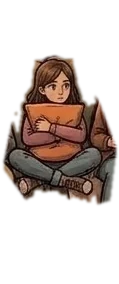
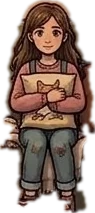
Canapé version 2 : silhouettes séparées recalées sur 4 places, table reposée devant

diff --git a/piece.js b/piece.js
@@ -695,7 +695,9 @@ function dormeurLit(lit){
 /* ---------- La famille sur le canapé du salon (2026-11-12, image Gemini) ----------
    Un membre de la famille d'origine au refuge, ni épuisé (il serait au lit), ni choisi pour partir, s'assoit à SA place
    (de gauche à droite : Papa, Léo, Emma, Maman). Chaque place est découpée à la silhouette, sans toucher aux coussins. */
-var PLACES_CANAPE = { "Papa":[330, 340, 464, 624, "papa"], "Léo":[451, 340, 544, 624, "leo"], "Emma":[529, 340, 648, 624, "emma"], "Maman":[612, 340, 727, 624, "maman"] };
+// Version 2 (2026-11-12) : deux images Gemini avec deux personnes espacées, silhouettes recalées chacune sur sa place ;
+// ordre de pose Léo, Papa, Emma, Maman (Papa devant le bras de Léo), puis la table basse et ses objets reposés devant eux
+var PLACES_CANAPE = { "Léo":[427, 354, 538, 574, "leo"], "Papa":[310, 339, 470, 600, "papa"], "Emma":[521, 374, 616, 587, "emma"], "Maman":[610, 353, 710, 615, "maman"] };
 function auSalon(r){
   if(!G || !G.m) return false;
   var i = G.m.findIndex(function(y){ return roleDormeur(y) === r; }), x = G.m[i];
@@ -707,6 +709,7 @@ function auSalon(r){
   var apres = 0; P.decor.forEach(function(d, k){ if(typeof d[0] === "string" && (d[0].indexOf("images/barricades/") === 0 || d[0].indexOf("images/feux/") === 0)) apres = k + 1; });
   var places = Object.keys(PLACES_CANAPE).map(function(r){ var L = PLACES_CANAPE[r];
     return ["images/personnages/canape-" + L[4] + ".webp", L[0], L[1], L[2], L[3], function(){ return auSalon(r); }]; });
+  places.push(["images/personnages/canape-table.webp", 360, 490, 665, 695, function(){ return Object.keys(PLACES_CANAPE).some(auSalon); }]);
   Array.prototype.splice.apply(P.decor, [apres, 0].concat(places));
 })();
 

diff --git a/site/piece.js b/site/piece.js
@@ -695,7 +695,9 @@ function dormeurLit(lit){
 /* ---------- La famille sur le canapé du salon (2026-11-12, image Gemini) ----------
    Un membre de la famille d'origine au refuge, ni épuisé (il serait au lit), ni choisi pour partir, s'assoit à SA place
    (de gauche à droite : Papa, Léo, Emma, Maman). Chaque place est découpée à la silhouette, sans toucher aux coussins. */
-var PLACES_CANAPE = { "Papa":[330, 340, 464, 624, "papa"], "Léo":[451, 340, 544, 624, "leo"], "Emma":[529, 340, 648, 624, "emma"], "Maman":[612, 340, 727, 624, "maman"] };
+// Version 2 (2026-11-12) : deux images Gemini avec deux personnes espacées, silhouettes recalées chacune sur sa place ;
+// ordre de pose Léo, Papa, Emma, Maman (Papa devant le bras de Léo), puis la table basse et ses objets reposés devant eux
+var PLACES_CANAPE = { "Léo":[427, 354, 538, 574, "leo"], "Papa":[310, 339, 470, 600, "papa"], "Emma":[521, 374, 616, 587, "emma"], "Maman":[610, 353, 710, 615, "maman"] };
 function auSalon(r){
   if(!G || !G.m) return false;
   var i = G.m.findIndex(function(y){ return roleDormeur(y) === r; }), x = G.m[i];
@@ -707,6 +709,7 @@ function auSalon(r){
   var apres = 0; P.decor.forEach(function(d, k){ if(typeof d[0] === "string" && (d[0].indexOf("images/barricades/") === 0 || d[0].indexOf("images/feux/") === 0)) apres = k + 1; });
   var places = Object.keys(PLACES_CANAPE).map(function(r){ var L = PLACES_CANAPE[r];
     return ["images/personnages/canape-" + L[4] + ".webp", L[0], L[1], L[2], L[3], function(){ return auSalon(r); }]; });
+  places.push(["images/personnages/canape-table.webp", 360, 490, 665, 695, function(){ return Object.keys(PLACES_CANAPE).some(auSalon); }]);
   Array.prototype.splice.apply(P.decor, [apres, 0].concat(places));
 })();
 

diff --git a/site/sw.js b/site/sw.js
@@ -4,7 +4,7 @@
    IMPORTANT : à chaque mise à jour du jeu, changer VERSION (sinon les
    téléphones garderaient l'ancienne copie).
    ===================================================================== */
-var VERSION = "survival-20261112-0910";
+var VERSION = "survival-20261112-0922";
 var FICHIERS = [
   "./",
   "index.html",

diff --git a/CLAUDE.md b/CLAUDE.md
@@ -385,6 +385,7 @@ Cartes de la famille à 2 barres (2026-11-11, accord de Fabien) : vie et énergi
 Logo du jeu avant « Jour N » aussi sur téléphone (2026-11-11, demande de Fabien) : `.hd-logo` affiché hors PC (46 px, 38 px sous 370 px de large, 36 px en paysage bas). Menu ☰ : toutes les icônes des tuiles à 20 px (15 px en paysage bas), qu'elles soient peintes, dessinées ou emoji
 En-tête corrigé (2026-11-12, retour de Fabien « n'importe quoi dans le header ») : avec le logo, les pastilles du haut du téléphone étaient écrasées (icônes de 4 px). Sur téléphone, la saison n'est plus qu'une icône (`.ch-nom` caché) à côté de « Chapitre N » ; sur PC, retour à l'en-tête d'avant (chapitre en texte, saison sur sa ligne). Les icônes des pastilles ne rétrécissent plus (`flex:none`) ; sur PC (≥ 1400 px) le petit nom (« EAU », « DÉFENSE ») passe SOUS le chiffre (à côté, il ne tenait qu'en écrasant l'icône à 1-8 px, défaut ancien). Le contrôleur signale maintenant « Icône écrasée » (moins de 9 px, sauf pendant une animation)
 Images Gemini du 2026-11-12 (4 demandées, 3 reçues ; la scène de la voiture abandonnée du siphon reste à faire) : 1) recrues au lit (`images/sources/chambre-recrues-gemini.jpg`, 1024 × 1024 recalée en 1024 × 1040) : Sam lit du haut (zone remontée à y 212, sinon cheveux coupés), Nora lit du bas, Yanis matelas de gauche, Inès matelas de droite → `images/personnages/chambre-sam|nora|yanis|ines.webp` ; lits par emplacement (`LITS_CHAMBRE` haut / bas / gauche / droite, `LIT_DE`, `dormeurLit(lit)` : le membre d'origine d'abord, une recrue seulement si ce membre n'est plus là). 2) la famille sur le canapé du salon (`images/sources/canape-famille-gemini.jpg`, même cadre que `refuge-fond-eteint-propre`) : de gauche à droite Papa, Léo, Emma, Maman, découpés à la silhouette (contour tracé à la main × différence avec la pièce, pour garder les coussins et le plaid d'origine) → `images/personnages/canape-<rôle>.webp`, `PLACES_CANAPE`, `auSalon(r)` : en vie, au refuge, pas épuisé (sinon au lit), pas choisi pour partir ; posés juste après le feu et les fenêtres (sous Rex et les cartes). Les recrues n'ont pas de place sur le canapé. 3) 6 icônes peintes (`images/sources/icones-13-gemini.jpg`) : `cleMolette` (🔧, onglet Réparer), `siphon` (🧪, le kit), `menu` (☰), `plus` (➕), `etoilePleine` (★), `etoileVide` (☆). Guide « Le refuge » : la famille sur le canapé et au lit
+Canapé version 2 (2026-11-12, retour de Fabien : la 1re découpe gardait un bout de Maman avec Emma, des jambes et le chignon coupés) : 2 images Gemini avec deux personnes espacées (`images/sources/canape-papa-emma-gemini.jpg`, `canape-leo-maman-gemini.jpg`) ; Gemini a mis Papa et Léo, puis Emma et Maman, presque au même endroit, donc chaque silhouette (différence avec la pièce, morceau rattaché au corps, trous bouchés) est recalée sur sa place : centres x 390 / 482 / 568 / 660 (`PLACES_CANAPE`, ordre de pose Léo, Papa, Emma, Maman). La table basse et ses objets (lanterne, tasse, livres) sont reposés devant eux (`images/personnages/canape-table.webp`, découpée dans la pièce). Page de vérification privée : https://claude.ai/artifact/Ksd65n42gfk6XyCJ4V8DeR
 Décor des assauts : la cour fortifiée (`piece-bastion-cour.webp`) sert de fond au combat pendant un assaut (ui.js, `openCombat`).
 Bilan de difficulté (2026-11-10, simulation après tous les ajouts) : Malin vit 85 jours (médiane, 10 % ≤ 68, 90 % ≤ 104, max 122), 96 % atteignent le jour 60, 79 % le jour 75, seulement 16 % le jour 100 ; Naïf 10 jours (1re mort au jour 5). Causes de mort de Malin : attaques de nuit, puis soif, puis faim. Assauts (2 membres, robot Auto, 200 essais) : bastion faible = 100 % de victoires ; remparts 5 + armurerie 3 + cible au jour 200 = 0 % (7 % avec gilets, casques, boucliers et camion au maximum) : courbe trop raide, à lisser. Jour d'accès aux clans : 100 jugé trop long.
 Réglages du 2026-11-10 (choix de Fabien : 30 jours) :
